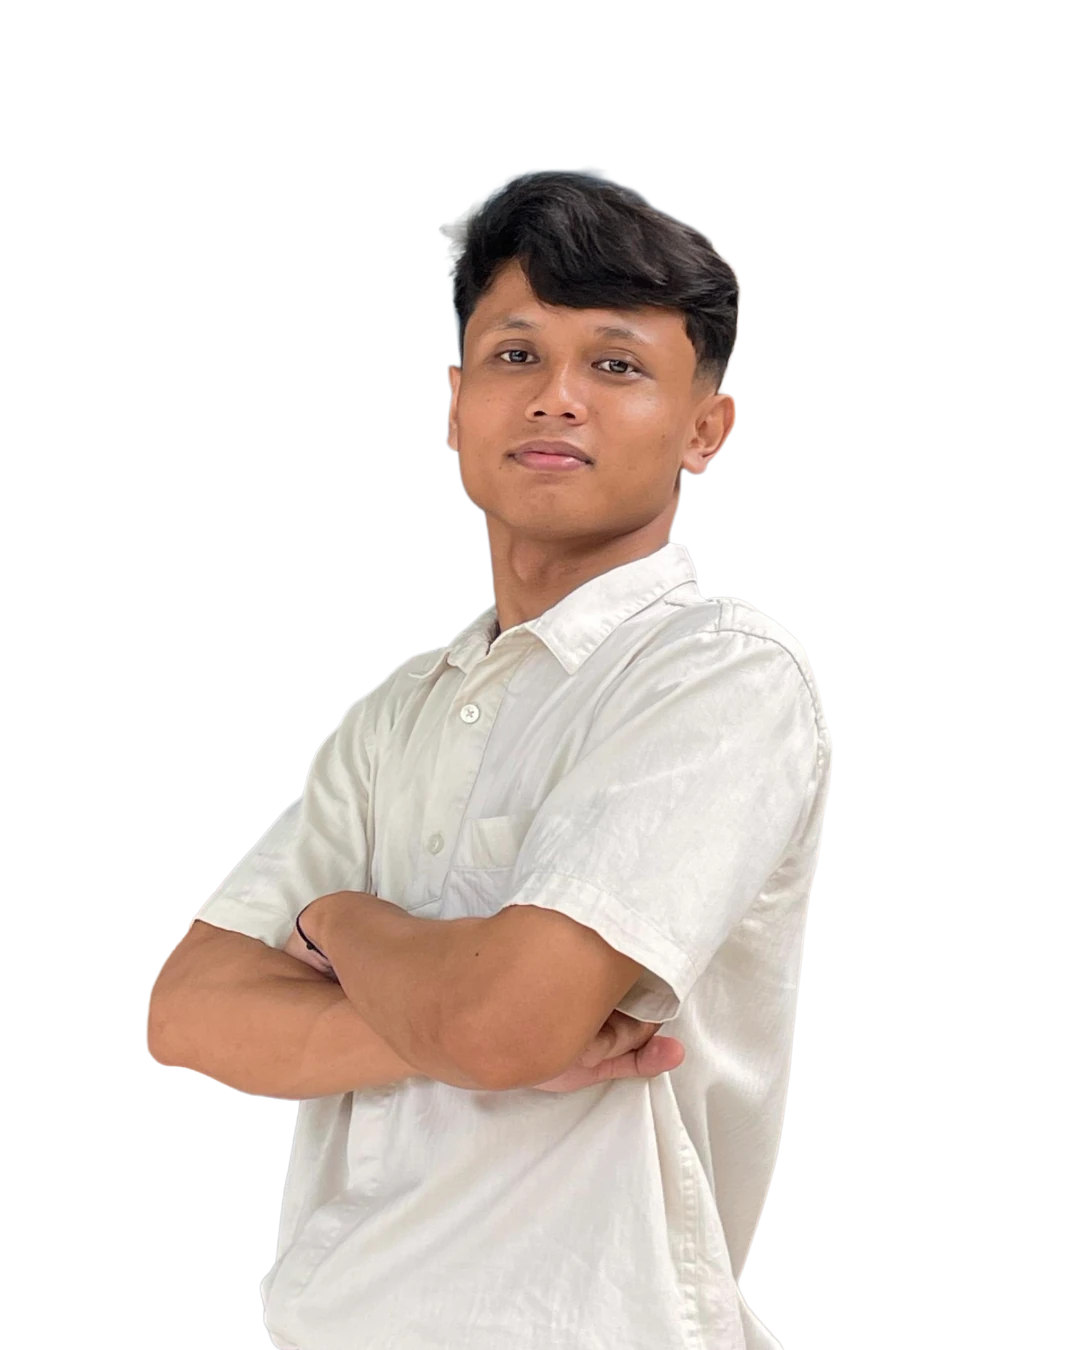
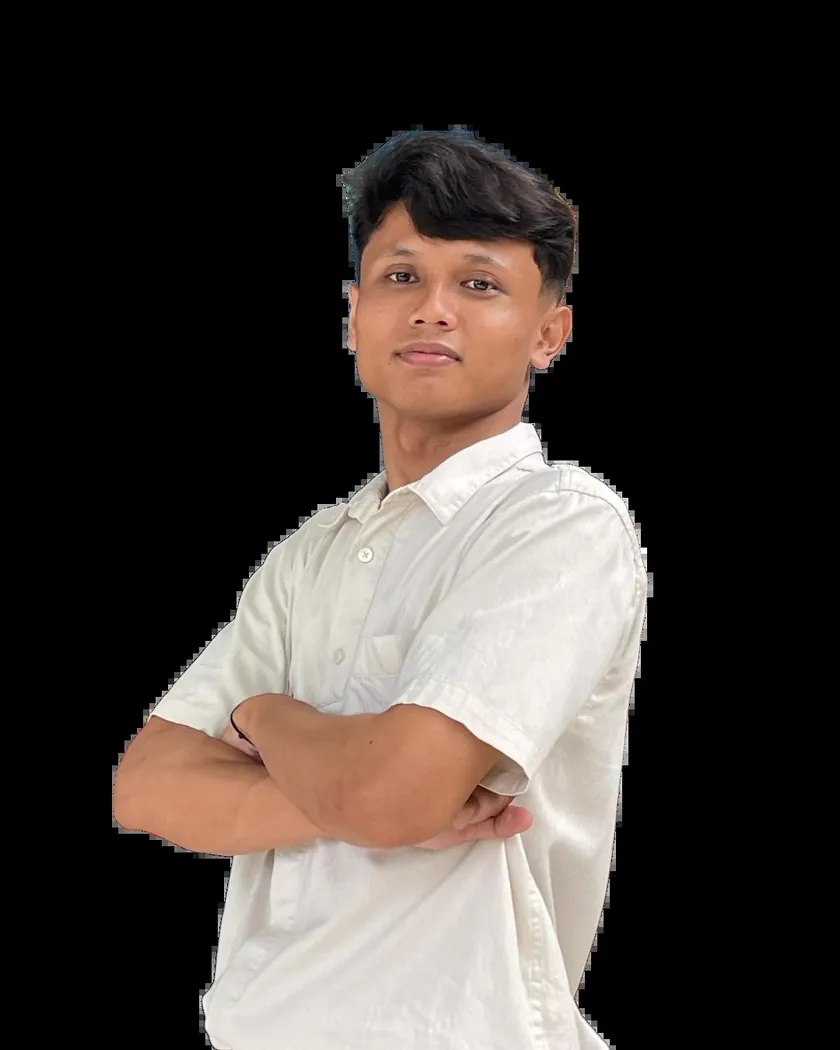
Optimasi LCP

diff --git a/src/index.css b/src/index.css
@@ -212,7 +212,7 @@ a {
 
 /* A restrained prism-like reveal belongs to the glass panel itself,
    leaving all section content and its assets untouched. */
-.glass-reveal-ready .home-glass-section:not(.is-visible) {
+.glass-reveal-ready .home-glass-section:not(#top):not(.is-visible) {
   opacity: 0;
   filter: blur(7px);
   clip-path: inset(0 0 9% 0 round 30px);
@@ -220,7 +220,7 @@ a {
     rotateX(1.6deg);
 }
 
-.glass-reveal-ready .home-glass-section {
+.glass-reveal-ready .home-glass-section:not(#top) {
   transition:
     opacity 850ms cubic-bezier(.2, .75, .2, 1),
     transform 1050ms cubic-bezier(.16, 1, .3, 1),
@@ -283,6 +283,9 @@ a {
 }
 #top {
   --section-tint: #e8e1d7;
+  /* The first viewport does not need a backdrop-filter compositing pass. */
+  -webkit-backdrop-filter: none;
+  backdrop-filter: none;
 }
 #about {
   --section-tint: #dce6dc;
@@ -1578,7 +1581,7 @@ button, .btn-primary, .btn-secondary, .eyebrow,
   /* Keep scroll reveal on touch devices, but use only opacity and a small
      2D translation. Blur, clip-path and perspective are avoided for smoother
      scrolling on entry-level phones. */
-  .glass-reveal-ready .home-glass-section:not(.is-visible) {
+  .glass-reveal-ready .home-glass-section:not(#top):not(.is-visible) {
     opacity: 0;
     filter: none;
     clip-path: none;
@@ -1587,7 +1590,7 @@ button, .btn-primary, .btn-secondary, .eyebrow,
     will-change: opacity, transform;
   }
 
-  .glass-reveal-ready .home-glass-section {
+  .glass-reveal-ready .home-glass-section:not(#top) {
     transition:
       opacity 460ms ease-out,
       transform 520ms cubic-bezier(.2, .7, .2, 1);

diff --git a/src/sections/Hero.jsx b/src/sections/Hero.jsx
@@ -83,15 +83,12 @@ export default function Hero() {
           <div className="relative h-full overflow-hidden rounded-[1.65rem]">
             <img
               src="/profile-photo.webp"
-              onError={(event) => {
-                event.currentTarget.onerror = null;
-                event.currentTarget.src = "/profile-photo.webp";
-              }}
               alt="Foto profil Hakim"
-              fetchpriority="high"
+              loading="eager"
+              fetchPriority="high"
               decoding="async"
-              width="1080"
-              height="1350"
+              width="840"
+              height="1050"
               className="h-full w-full object-cover object-center"
             />
             <div className="pointer-events-none absolute inset-0 bg-gradient-to-t from-slate-950/75 via-transparent to-slate-950/10" />

diff --git a/src/components/Preloader.jsx b/src/components/Preloader.jsx
@@ -11,10 +11,11 @@ export default function Preloader() {
     const reduceMotion = window.matchMedia(
       "(prefers-reduced-motion: reduce)",
     ).matches;
-    const revealTimer = window.setTimeout(() => setLeaving(true), reduceMotion ? 420 : 980);
+    // Keep the intro brief so it does not visually hold back the first screen.
+    const revealTimer = window.setTimeout(() => setLeaving(true), reduceMotion ? 120 : 260);
     const removeTimer = window.setTimeout(
       () => setVisible(false),
-      reduceMotion ? 460 : 1420,
+      reduceMotion ? 180 : 700,
     );
     return () => {
       window.clearTimeout(revealTimer);

diff --git a/index.html b/index.html
@@ -142,7 +142,7 @@
     <meta name="twitter:title" content="Harith Hakim — Frontend Web Developer" />
     <meta name="twitter:description" content="Portfolio, selected projects, experience, and frontend development skills of Harith Hakim." />
     <meta name="twitter:image" content="/profile-photo.webp" />
-    <link rel="preload" as="image" href="/profile-photo.webp" fetchpriority="high" />
+    <link rel="preload" as="image" href="/profile-photo.webp" type="image/webp" fetchpriority="high" />
     <title>Harith Hakim — Frontend Web Developer | Portfolio</title>
     <script type="application/ld+json">
       {
